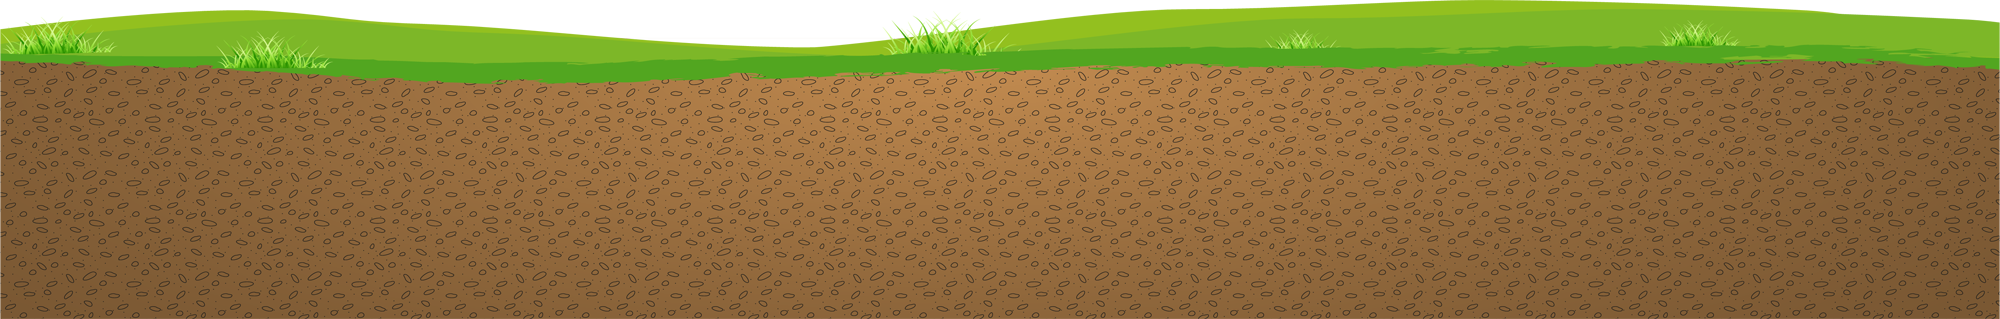
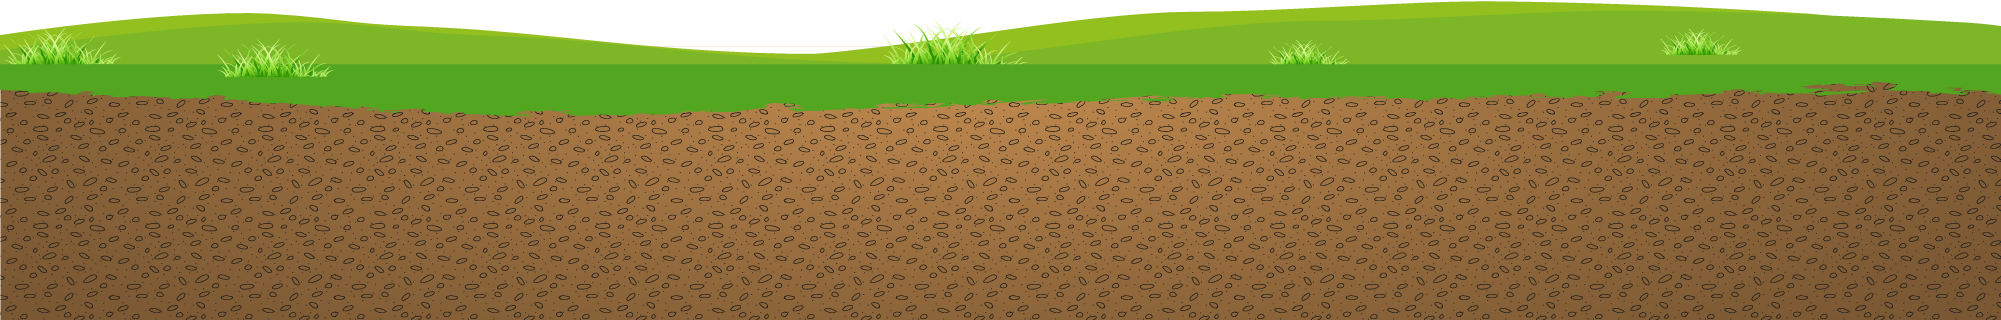
Update castle blocks textures and sky

diff --git a/src/com/angrykings/ResourceManager.java b/src/com/angrykings/ResourceManager.java
@@ -1,7 +1,11 @@
 package com.angrykings;
 
 import android.graphics.Color;
+
+import com.angrykings.maps.BasicMap;
+
 import org.andengine.entity.scene.background.RepeatingSpriteBackground;
+import org.andengine.entity.sprite.Sprite;
 import org.andengine.opengl.font.Font;
 import org.andengine.opengl.font.FontFactory;
 import org.andengine.opengl.texture.ITexture;
@@ -9,7 +13,11 @@ import org.andengine.opengl.texture.TextureOptions;
 import org.andengine.opengl.texture.atlas.bitmap.BitmapTextureAtlas;
 import org.andengine.opengl.texture.atlas.bitmap.BitmapTextureAtlasTextureRegionFactory;
 import org.andengine.opengl.texture.atlas.bitmap.source.AssetBitmapTextureAtlasSource;
+import org.andengine.opengl.texture.atlas.bitmap.source.EmptyBitmapTextureAtlasSource;
+import org.andengine.opengl.texture.atlas.bitmap.source.decorator.LinearGradientFillBitmapTextureAtlasSourceDecorator;
+import org.andengine.opengl.texture.atlas.bitmap.source.decorator.shape.RectangleBitmapTextureAtlasSourceDecoratorShape;
 import org.andengine.opengl.texture.region.TextureRegion;
+import org.andengine.opengl.texture.region.TextureRegionFactory;
 import org.andengine.opengl.texture.region.TiledTextureRegion;
 import org.andengine.ui.activity.BaseGameActivity;
 
@@ -36,11 +44,13 @@ public class ResourceManager {
 	private RepeatingSpriteBackground skySprite;
 	private TiledTextureRegion grassTexture;
     private TextureRegion groundTexture;
+    private TextureRegion cloudTexture1, cloudTexture2, cloudTexture3;
 	private TextureRegion cannonTexture;
 	private TextureRegion wheelTexture;
 	private TextureRegion ballTexture;
 	private TextureRegion aimCircleTexture;
 	private TiledTextureRegion skyTexture;
+    private Sprite backgroundSprite;
 	private TiledTextureRegion aimButtonTexture;
 	private TiledTextureRegion whiteFlagButtonTexture;
 	private TiledTextureRegion stoneTexture;
@@ -65,7 +75,7 @@ public class ResourceManager {
 				gameActivity.getTextureManager(), 13, 99, TextureOptions.BILINEAR);
 		this.grassTexture = BitmapTextureAtlasTextureRegionFactory
 				.createTiledFromAsset(textureAtlas, gameActivity, "grass.png", 0, 0, 1,
-						1); // 32x32
+                        1); // 32x32
 		textureAtlas.load();
 
 		this.skySprite = new RepeatingSpriteBackground(GameConfig.CAMERA_WIDTH,
@@ -73,9 +83,41 @@ public class ResourceManager {
 				AssetBitmapTextureAtlasSource.create(gameActivity.getAssets(),
 						"gfx/sky.png"), gameActivity.getVertexBufferObjectManager());
 
-        textureAtlas = new BitmapTextureAtlas(gameActivity.getTextureManager(), 2000,  319, TextureOptions.BILINEAR);
+        BitmapTextureAtlas backgroundGradientTexture = new BitmapTextureAtlas(gameActivity.getTextureManager(), 2, 512, TextureOptions.NEAREST);
+
+        EmptyBitmapTextureAtlasSource bitmap = new EmptyBitmapTextureAtlasSource(2, 512);
+        LinearGradientFillBitmapTextureAtlasSourceDecorator gradientSource = new LinearGradientFillBitmapTextureAtlasSourceDecorator(
+                bitmap, new RectangleBitmapTextureAtlasSourceDecoratorShape(), Color.rgb(54, 168, 224), Color.rgb(255, 255, 255),
+                LinearGradientFillBitmapTextureAtlasSourceDecorator.LinearGradientDirection.TOP_TO_BOTTOM);
+
+        TextureRegion backgroundGradientTextureRegion = TextureRegionFactory.createFromSource(backgroundGradientTexture,
+                gradientSource, 0, 0);
+        backgroundGradientTexture.load();
+
+        this.backgroundSprite = new Sprite(BasicMap.GROUND_X, 0, 2000, 2000,
+                backgroundGradientTextureRegion,
+                gameActivity.getVertexBufferObjectManager());
+
+
+
+        textureAtlas = new BitmapTextureAtlas(gameActivity.getTextureManager(), 2001,  320, TextureOptions.NEAREST);
         this.groundTexture = BitmapTextureAtlasTextureRegionFactory
                 .createFromAsset(textureAtlas, gameActivity, "ground.png", 0, 0);
+        textureAtlas.load();
+
+        textureAtlas = new BitmapTextureAtlas(gameActivity.getTextureManager(), 211,  91, TextureOptions.NEAREST);
+        this.cloudTexture1 = BitmapTextureAtlasTextureRegionFactory
+                .createFromAsset(textureAtlas, gameActivity, "cloud1.png", 0, 0);
+        textureAtlas.load();
+
+        textureAtlas = new BitmapTextureAtlas(gameActivity.getTextureManager(), 242,  110, TextureOptions.NEAREST);
+        this.cloudTexture2 = BitmapTextureAtlasTextureRegionFactory
+                .createFromAsset(textureAtlas, gameActivity, "cloud2.png", 0, 0);
+        textureAtlas.load();
+
+        textureAtlas = new BitmapTextureAtlas(gameActivity.getTextureManager(), 240,  90, TextureOptions.NEAREST);
+        this.cloudTexture3 = BitmapTextureAtlasTextureRegionFactory
+                .createFromAsset(textureAtlas, gameActivity, "cloud3.png", 0, 0);
         textureAtlas.load();
 
 		//
@@ -83,24 +125,24 @@ public class ResourceManager {
 		//
 
 		textureAtlas = new BitmapTextureAtlas(gameActivity.getTextureManager(), 120,
-				19, TextureOptions.BILINEAR);
+				19, TextureOptions.NEAREST);
 		this.cannonTexture = BitmapTextureAtlasTextureRegionFactory
 				.createFromAsset(textureAtlas, gameActivity, "cannon.png", 0, 0);
 		textureAtlas.load();
 
 		textureAtlas = new BitmapTextureAtlas(gameActivity.getTextureManager(), 155,
-				60, TextureOptions.BILINEAR);
+				60, TextureOptions.NEAREST);
 		this.wheelTexture = BitmapTextureAtlasTextureRegionFactory
 				.createFromAsset(textureAtlas, gameActivity, "wheel.png", 0, 0);
 		textureAtlas.load();
 
 		textureAtlas = new BitmapTextureAtlas(gameActivity.getTextureManager(), 11, 11,
-				TextureOptions.BILINEAR);
+				TextureOptions.NEAREST);
 		this.ballTexture = BitmapTextureAtlasTextureRegionFactory
 				.createFromAsset(textureAtlas, gameActivity, "ball.png", 0, 0);
 		textureAtlas.load();
 
-		textureAtlas = new BitmapTextureAtlas(gameActivity.getTextureManager(), 280, 302, TextureOptions.BILINEAR);
+		textureAtlas = new BitmapTextureAtlas(gameActivity.getTextureManager(), 280, 302, TextureOptions.NEAREST);
 		this.aimCircleTexture = BitmapTextureAtlasTextureRegionFactory.createFromAsset(textureAtlas, gameActivity, "aimCircle.png", 0, 0);
 		textureAtlas.load();
 
@@ -109,17 +151,17 @@ public class ResourceManager {
 		//
 
 		textureAtlas = new BitmapTextureAtlas(gameActivity.getTextureManager(), 128,
-				64, TextureOptions.BILINEAR);
+				64, TextureOptions.NEAREST);
 		this.aimButtonTexture = BitmapTextureAtlasTextureRegionFactory
 				.createTiledFromAsset(textureAtlas, gameActivity, "aim_button.png", 0,
-						0, 2, 1);
+                        0, 2, 1);
 		textureAtlas.load();
 
 		textureAtlas = new BitmapTextureAtlas(gameActivity.getTextureManager(), 64, 64,
-				TextureOptions.BILINEAR);
+				TextureOptions.NEAREST);
 		this.whiteFlagButtonTexture = BitmapTextureAtlasTextureRegionFactory
 				.createTiledFromAsset(textureAtlas, gameActivity,
-						"white_flag_button.png", 0, 0, 1, 1);
+                        "white_flag_button.png", 0, 0, 1, 1);
 		textureAtlas.load();
 
 		FontFactory.setAssetBasePath("font/");
@@ -132,7 +174,7 @@ public class ResourceManager {
 				gameActivity.getTextureManager(),
 				256,
 				256,
-				TextureOptions.BILINEAR
+				TextureOptions.NEAREST
 		);
 
 		this.statusFont = FontFactory.createStrokeFromAsset(
@@ -150,7 +192,7 @@ public class ResourceManager {
 		this.statusFont.load();
 
 		final ITexture playerNameFontTexture = new BitmapTextureAtlas(
-				gameActivity.getTextureManager(), 256, 256, TextureOptions.BILINEAR);
+				gameActivity.getTextureManager(), 256, 256, TextureOptions.NEAREST);
 		this.playerNameFont = FontFactory.createFromAsset(
 				gameActivity.getFontManager(), playerNameFontTexture, gameActivity.getAssets(),
 				"CherrySwash-Bold.ttf", 16.0f, true, Color.BLACK);
@@ -160,21 +202,21 @@ public class ResourceManager {
 		// castle textures
 		//
 
-		textureAtlas = new BitmapTextureAtlas(gameActivity.getTextureManager(), 63,
-				21, TextureOptions.BILINEAR);
+		textureAtlas = new BitmapTextureAtlas(gameActivity.getTextureManager(), 120,
+				60, TextureOptions.NEAREST);
 		this.stoneTexture = BitmapTextureAtlasTextureRegionFactory
-				.createTiledFromAsset(textureAtlas, gameActivity, "stones.png", 0, 0,
-						3, 1);
+				.createTiledFromAsset(textureAtlas, gameActivity, "stones03.png", 0, 0,
+                        2, 1);
 		textureAtlas.load();
 
 		textureAtlas = new BitmapTextureAtlas(gameActivity.getTextureManager(), 21,
-				21, TextureOptions.BILINEAR);
+				21, TextureOptions.NEAREST);
 		this.roofTexture = BitmapTextureAtlasTextureRegionFactory
 				.createFromAsset(textureAtlas, gameActivity, "roof.png", 0, 0);
 		textureAtlas.load();
 
-		textureAtlas = new BitmapTextureAtlas(gameActivity.getTextureManager(), 100,
-				10, TextureOptions.BILINEAR);
+		textureAtlas = new BitmapTextureAtlas(gameActivity.getTextureManager(), 180,
+				20, TextureOptions.NEAREST);
 		this.woodTexture = BitmapTextureAtlasTextureRegionFactory
 				.createFromAsset(textureAtlas, gameActivity, "wood.png", 0, 0);
 		textureAtlas.load();
@@ -184,17 +226,17 @@ public class ResourceManager {
 		//
 
 		textureAtlas = new BitmapTextureAtlas(gameActivity.getTextureManager(), 88,
-				82, TextureOptions.BILINEAR);
+				82, TextureOptions.NEAREST);
 		this.kingTexture1 = BitmapTextureAtlasTextureRegionFactory
 				.createTiledFromAsset(textureAtlas, gameActivity, "green_king.png", 0,
-						0, 2, 1);
+                        0, 2, 1);
 		textureAtlas.load();
 
 		textureAtlas = new BitmapTextureAtlas(gameActivity.getTextureManager(), 120,
-				82, TextureOptions.BILINEAR);
+				82, TextureOptions.NEAREST);
 		this.kingTexture2 = BitmapTextureAtlasTextureRegionFactory
 				.createTiledFromAsset(textureAtlas, gameActivity, "purple_king.png", 0,
-						0, 2, 1);
+                        0, 2, 1);
 
 		textureAtlas.load();
 	}
@@ -265,5 +307,21 @@ public class ResourceManager {
 
     public TextureRegion getGroundTexture() {
         return groundTexture;
+    }
+
+    public TextureRegion getCloudTexture1() {
+        return cloudTexture1;
+    }
+
+    public TextureRegion getCloudTexture2() {
+        return cloudTexture2;
+    }
+
+    public TextureRegion getCloudTexture3() {
+        return cloudTexture3;
+    }
+
+    public Sprite getBackgroundSprite() {
+        return backgroundSprite;
     }
 }

diff --git a/src/com/angrykings/maps/BasicMap.java b/src/com/angrykings/maps/BasicMap.java
@@ -12,6 +12,8 @@ import com.badlogic.gdx.physics.box2d.Body;
 import com.badlogic.gdx.physics.box2d.BodyDef;
 import com.badlogic.gdx.physics.box2d.FixtureDef;
 
+import java.util.ArrayList;
+
 /**
  * AngryKings
  *
@@ -23,10 +25,14 @@ public class BasicMap extends Entity {
 	public static final float GROUND_X = -1000;
 	public static final float GROUND_Y = 1050;
 	public static final float GRASS_TILES = 150;
-    
+
     private Sprite ground;
 
+    private ArrayList<Sprite> clouds;
+
 	public BasicMap() {
+        this.clouds = new ArrayList<Sprite>();
+
 		GameContext gc = GameContext.getInstance();
 		ResourceManager rm = ResourceManager.getInstance();
 
@@ -36,7 +42,7 @@ public class BasicMap extends Entity {
 
 		float grassWidth = rm.getGrassTexture().getWidth();
 
-        this.ground = new Sprite(BasicMap.GROUND_X, BasicMap.GROUND_Y-55, rm.getGroundTexture(), gc.getVboManager());
+        this.ground = new Sprite(BasicMap.GROUND_X, BasicMap.GROUND_Y-65, rm.getGroundTexture(), gc.getVboManager());
         this.attachChild(this.ground);
 
 		//
@@ -49,7 +55,24 @@ public class BasicMap extends Entity {
 		final FixtureDef wallFixture = PhysicsFactory.createFixtureDef(0, 0.1f, 1.0f);
 		Body body = PhysicsFactory.createBoxBody(gc.getPhysicsWorld(), ground, BodyDef.BodyType.StaticBody, wallFixture);
 
-		//this.attachChild(ground);
+        //
+        // Clouds
+        //
+
+        for(int i = 0; i < 10; i++) {
+            if(i % 3 == 0) {
+                final Sprite cloud1 = new Sprite(BasicMap.GROUND_X+200*i, BasicMap.GROUND_Y-500, rm.getCloudTexture1(), gc.getVboManager());
+                this.attachChild(cloud1);
+            }else if(i % 3 == 1) {
+                final Sprite cloud2 = new Sprite(BasicMap.GROUND_X+260*i, BasicMap.GROUND_Y-600, rm.getCloudTexture2(), gc.getVboManager());
+                this.attachChild(cloud2);
+            }else if(i % 3 == 2) {
+                final Sprite cloud3 = new Sprite(BasicMap.GROUND_X+200*i, BasicMap.GROUND_Y-700, rm.getCloudTexture3(), gc.getVboManager());
+                this.attachChild(cloud3);
+            }
+
+        }
+
 	}
 
 }

diff --git a/src/com/angrykings/GameConfig.java b/src/com/angrykings/GameConfig.java
@@ -15,7 +15,7 @@ public final class GameConfig {
 	public static final int CAMERA_X = -520;
 	public static final int CAMERA_Y = 520;
 
-	public static final float CAMERA_STARTUP_ZOOM = 0.75f;
+	public static final float CAMERA_STARTUP_ZOOM = 0.70f;
 	public static final float CAMERA_ZOOM_MIN = 0.5f;
 	public static final float CAMERA_ZOOM_MAX = 1f;
 

diff --git a/src/com/angrykings/activities/OnlineGameActivity.java b/src/com/angrykings/activities/OnlineGameActivity.java
@@ -329,7 +329,7 @@ public class OnlineGameActivity extends BaseGameActivity implements
 		//
 
 		Scene scene = new Scene();
-		scene.setBackground(rm.getSkySprite());
+		scene.attachChild(rm.getBackgroundSprite());
 		scene.setOnSceneTouchListener(this);
 
 		gc.setScene(scene);
